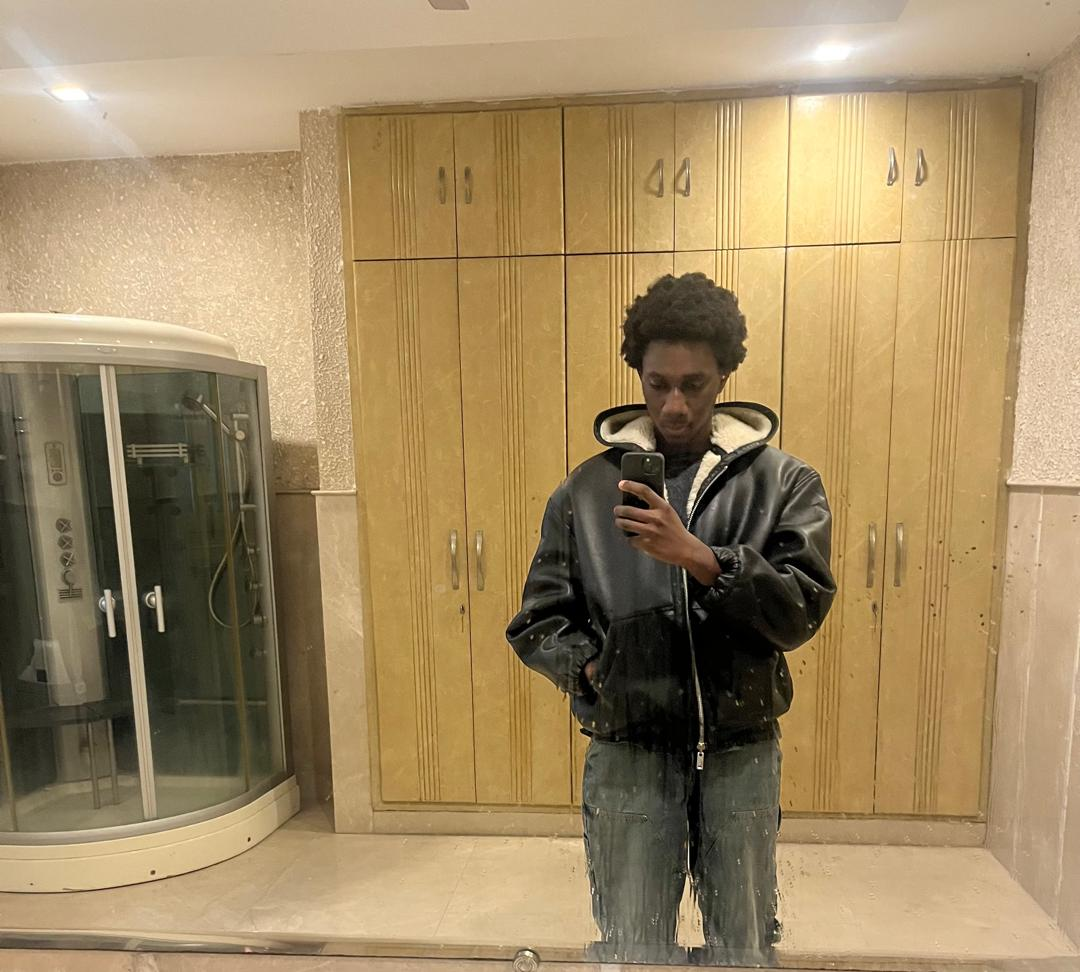
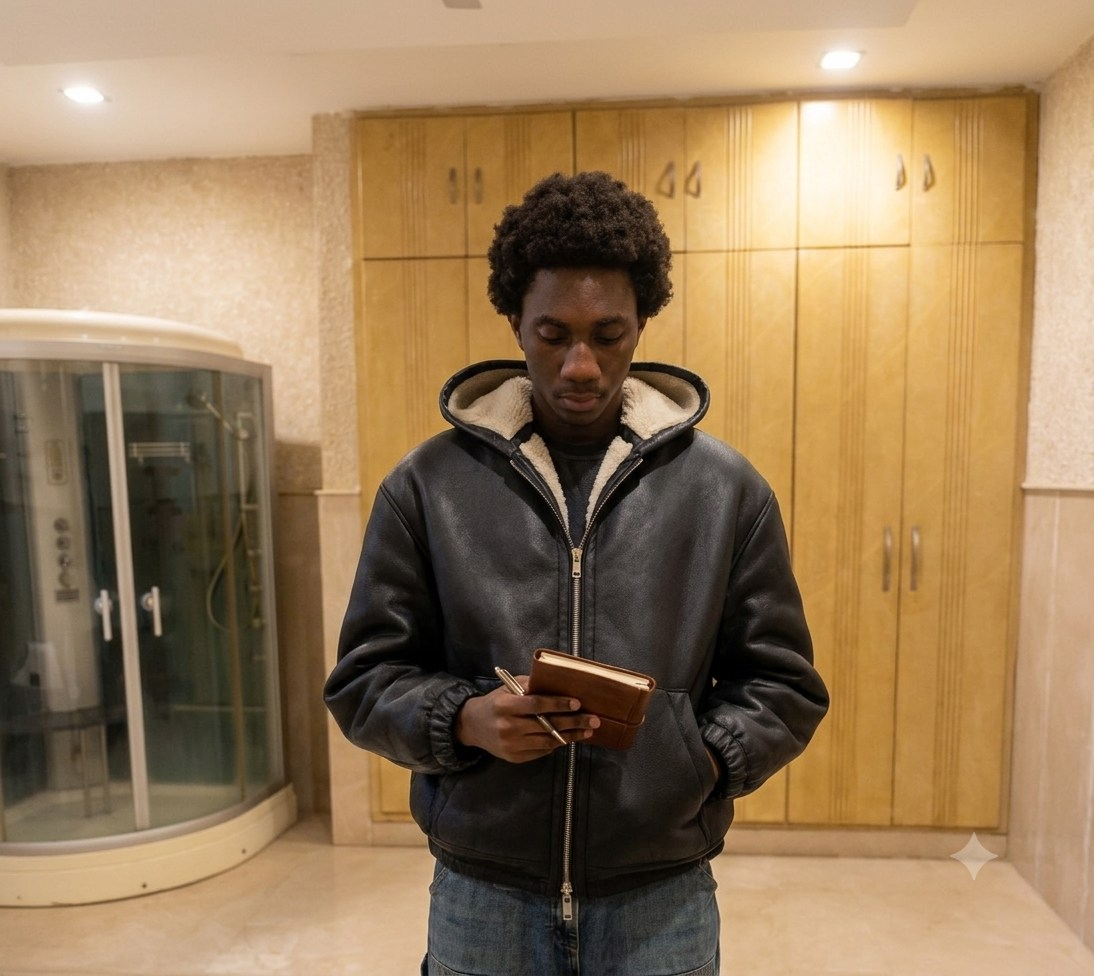
Use the new portrait and correct the experience dates
Oumar supplied a better photo — face lit and visible, notebook instead of
a phone, no bathroom in frame. Replaced both the source image and the
face crop used by the About avatar and the contact card. The crop is
taken well clear of the AI-edit badge in the bottom-right corner.

Dates confirmed by Oumar: Sharda runs 2024–2028, not 2024–Present, and
the second entry is personal projects rather than independent work.

diff --git a/src/data/experience.js b/src/data/experience.js
@@ -1,12 +1,9 @@
-/*
- * ⚠ Dates below were assumed in an earlier session and have never been
- * confirmed by Oumar. Verify before this ships publicly.
- */
+/* Dates confirmed by Oumar, 2026-08-04. */
 export const experience = [
   {
     org: 'Sharda University',
     role: 'B.Tech CSE — Artificial Intelligence & Machine Learning',
-    period: '2024 — Present',
+    period: '2024 — 2028',
     icon: 'grad',
     points: [
       'Specialisation in Artificial Intelligence & Machine Learning.',
@@ -15,7 +12,7 @@ export const experience = [
     ],
   },
   {
-    org: 'Independent projects',
+    org: 'Personal projects',
     role: 'Designing, building, and shipping my own systems',
     period: '2025 — Present',
     icon: 'code',
